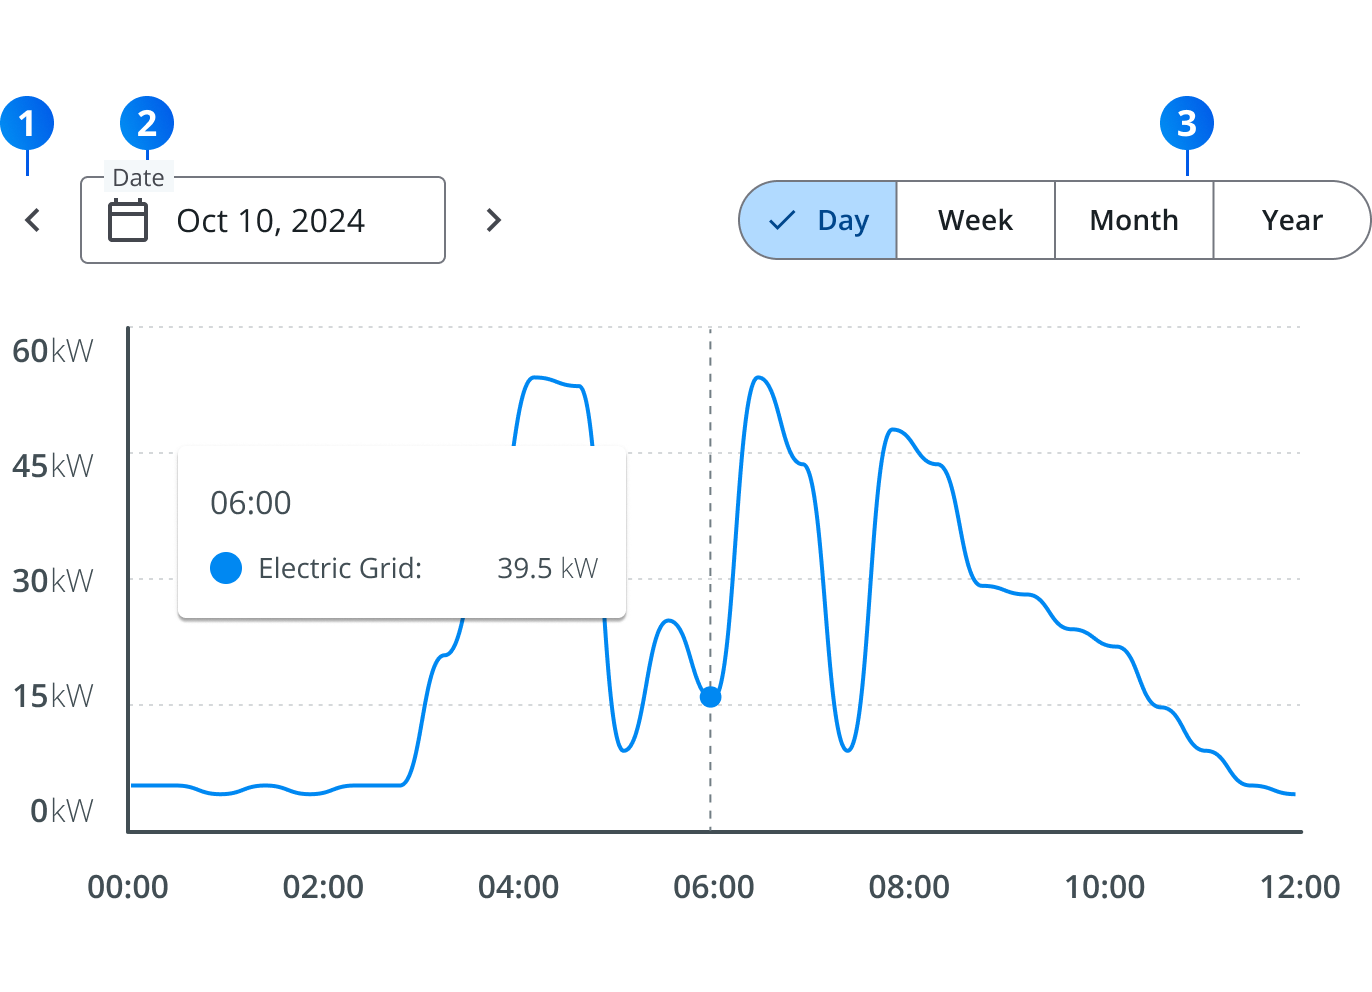
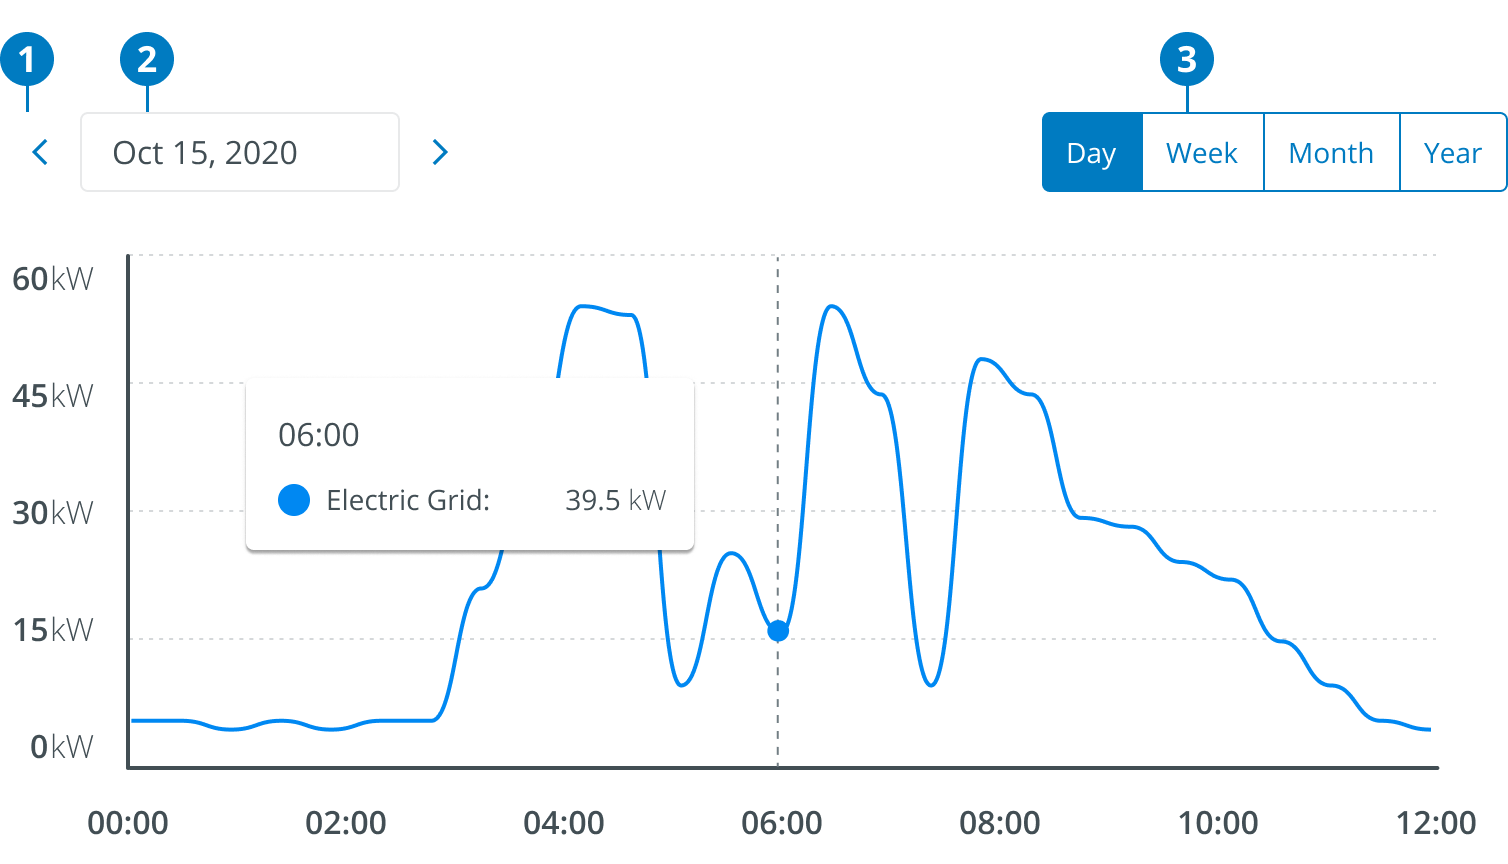
update component links, copy,  data granularity image, and fix mui errors

diff --git a/src/app/components/visualizations/VariantIllustration.tsx b/src/app/components/visualizations/VariantIllustration.tsx
@@ -2,7 +2,7 @@ import React from 'react';
 import { styled } from '@mui/material/styles';
 import { useNavigate } from 'react-router-dom';
 
-const VariantContainer = styled('div')<{ url?: string }>`
+const VariantContainer = styled('span')<{ url?: string }>`
   display: flex;
   flex-direction: column;
   align-items: start;
@@ -10,7 +10,7 @@ const VariantContainer = styled('div')<{ url?: string }>`
   cursor: ${(props): string => (props.url ? 'pointer' : 'default')};
 `;
 
-const VariantIconContainer = styled('div')<{ noPadding: boolean }>`
+const VariantIconContainer = styled('span')<{ noPadding: boolean }>`
     display: flex;
     justify-content: center;
     align-items: center;
@@ -18,7 +18,7 @@ const VariantIconContainer = styled('div')<{ noPadding: boolean }>`
     padding: ${(props): string => (props.noPadding ? '0rem' : '2rem')};
 `;
 
-const VariantTextContainer = styled('div')`
+const VariantTextContainer = styled('span')`
     display: flex;
     flex-direction: column;
     align-items: start;

diff --git a/src/app/components/visualizations/GettingStartedTabs.tsx b/src/app/components/visualizations/GettingStartedTabs.tsx
@@ -5,7 +5,7 @@ import Tab from '@mui/material/Tab';
 import Box from '@mui/material/Box';
 import { styled, useTheme } from '@mui/material/styles';
 
-const TabText = styled('p')`
+const TabText = styled('span')`
     color: #1D2529;
     font-feature-settings: 'liga' off, 'clig' off;
     font-family: "Open Sans";
@@ -15,6 +15,7 @@ const TabText = styled('p')`
     line-height: 28px;
     max-height: 463px;
     min-height: 463px;
+    display: block;
 `;
 
 const StyledMainBox = styled(Box)`
@@ -25,6 +26,7 @@ const StyledPanelBox = styled(Box)`
     padding: 1.5rem;
     background: #fbfbfb;
     border-radius: 0px 0px 8px 8px;
+    padding-top: 2.5rem;
 `;
 
 const StyledTab = styled(Tab)<{ color: string }>`
